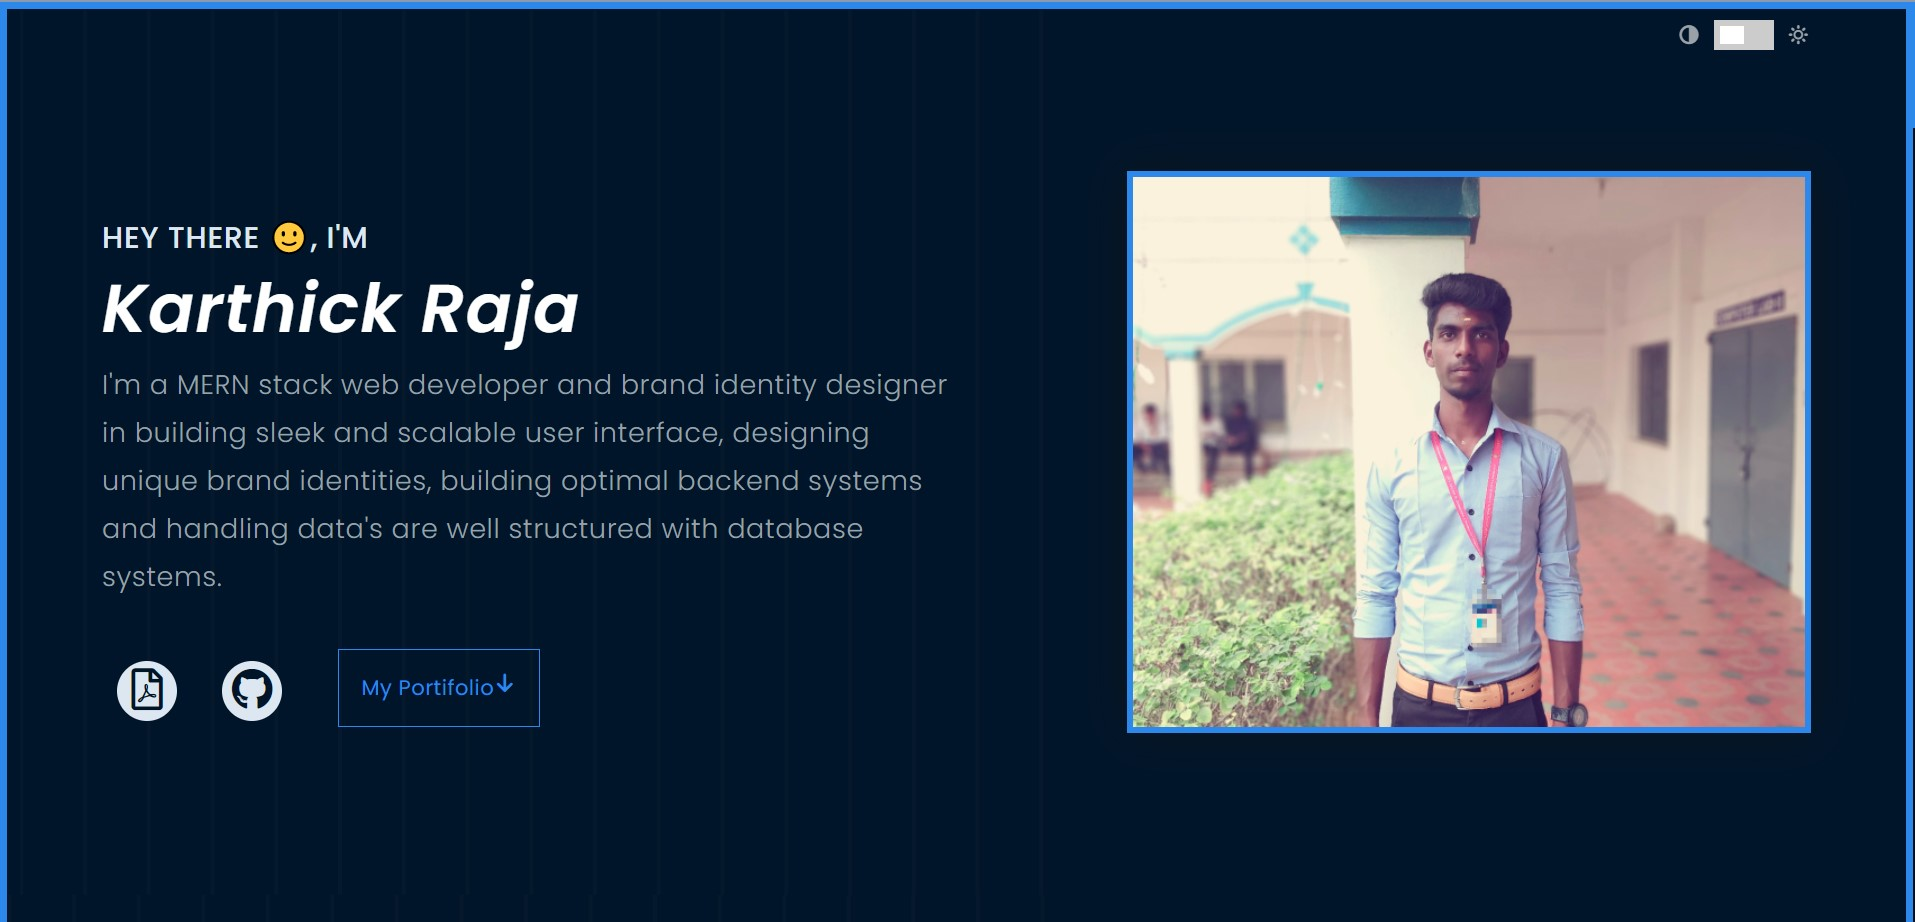
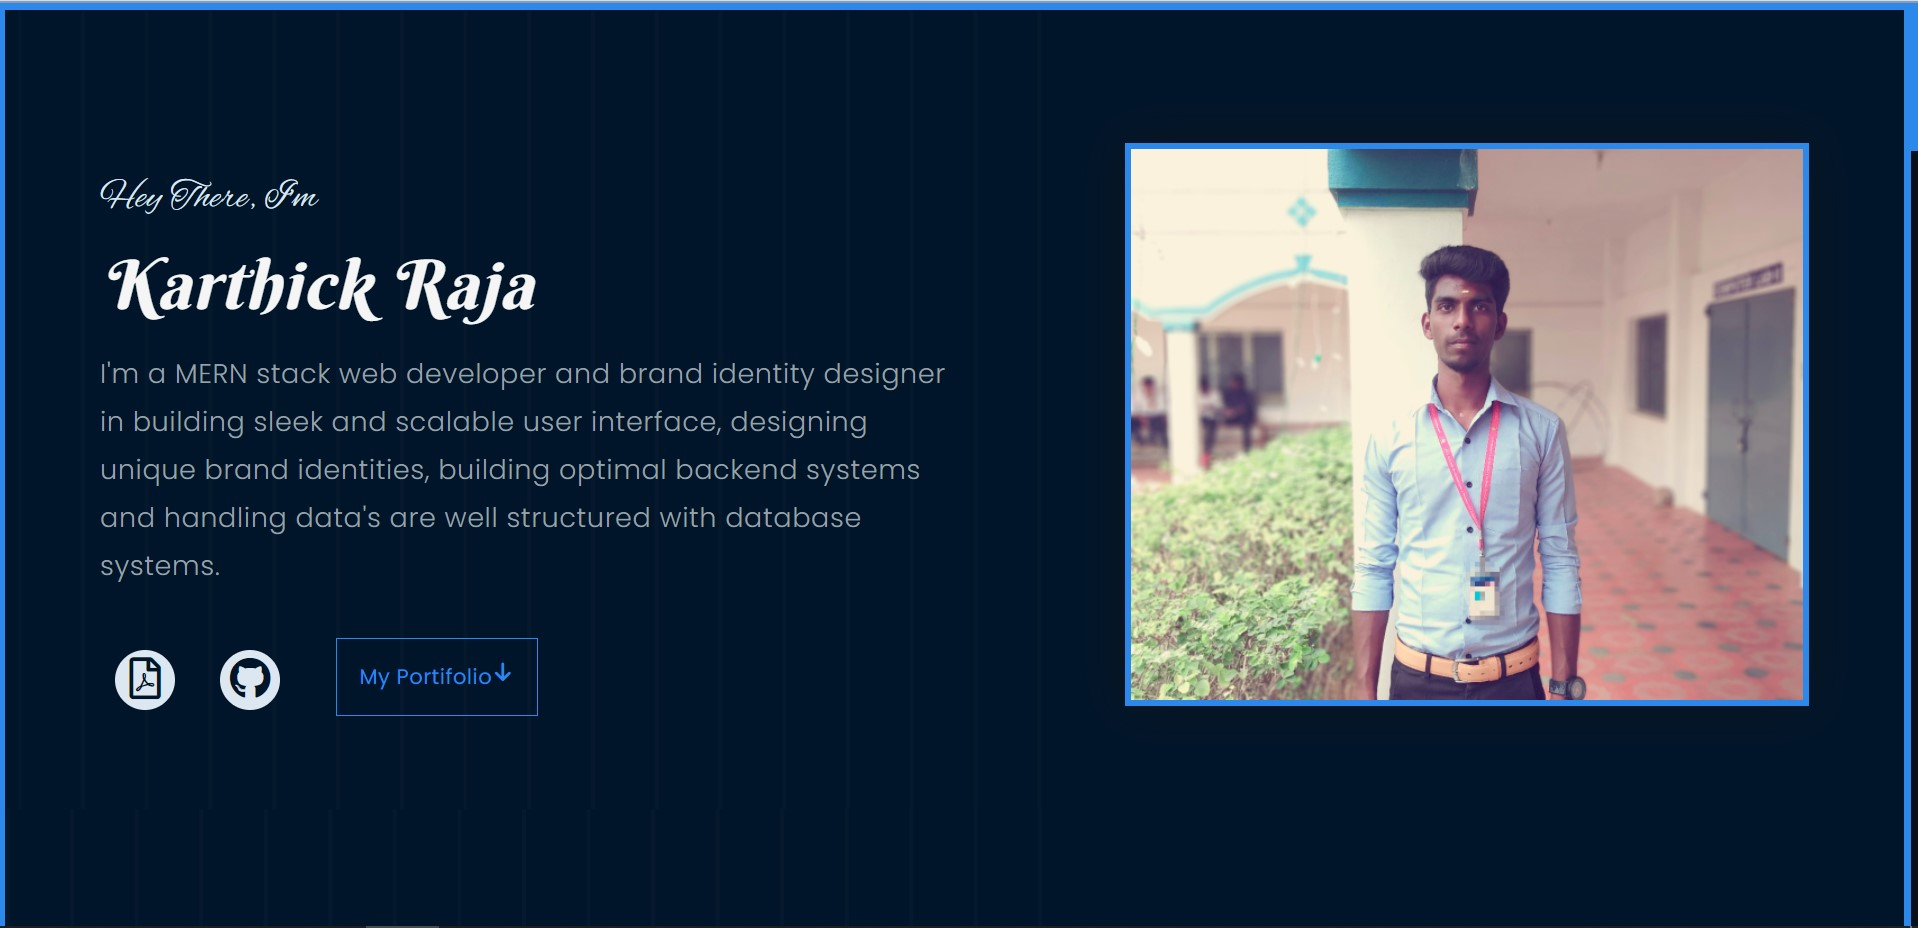
commitz

diff --git a/src/App.js b/src/App.js
@@ -1,16 +1,15 @@
 import React from 'react';
 import './App.css';
-// import Header from "./Components/Header/Header";
 import Hero from "./Components/Hero/Hero";
 import Skills from "./Components/Skills/Skills";
 import Portfolio from "./Components/Portfolio/Portfolio";
 import Footer from "./Components/Footer/Footer";
-import {Drawer} from "./Components/Drawer/Drawer";
+import { Drawer } from "./Components/Drawer/Drawer";
 import Preloader from "./Components/Preloader/Preloader"
 import "./Assets/Icons/icon.css";
 
 class App extends React.Component {
-  constructor(){
+  constructor() {
     super();
     this.state = {
       loaded: false,
@@ -31,12 +30,12 @@ class App extends React.Component {
     // Disabling scroll until elements are fully loaded
     document.onreadystatechange = () => {
       if (document.readyState !== "complete") {
-        this.setState({...this.state, loaded: false}, () => {
+        this.setState({ ...this.state, loaded: false }, () => {
           body.style.overflow = "hidden"
           root.style.overflow = "hidden"
         })
-      } else{
-        this.setState({...this.state, loaded: true}, () => {
+      } else {
+        this.setState({ ...this.state, loaded: true }, () => {
           body.style.overflow = "auto"
           root.style.overflow = "auto"
           drawer.style.display = "none"
@@ -54,26 +53,26 @@ class App extends React.Component {
         body.style.overflow = "auto"
         root.style.overflow = "auto"
       })
-      
+
     })
   }
 
-  Draw (i) {
+  Draw(i) {
     const body = document.querySelector('body')
     const root = document.querySelector('#root')
 
-    this.setState({...this.state, loaded: false}, () => {
+    this.setState({ ...this.state, loaded: false }, () => {
       body.style.overflow = "hidden"
       root.style.overflow = "hidden"
     })
 
     fetch("./data.json")
-    .then(response => response.json())
-    .then(data => {
-        this.setState({...this.state, loaded: true});
-        this.setState({drawContent: data.portfolio[i], draw: !this.state.draw})
-    })
-    .catch(error => console.log(error))
+      .then(response => response.json())
+      .then(data => {
+        this.setState({ ...this.state, loaded: true });
+        this.setState({ drawContent: data.portfolio[i], draw: !this.state.draw })
+      })
+      .catch(error => console.log(error))
   }
 
   updateTheme() {
@@ -81,27 +80,26 @@ class App extends React.Component {
     const toggleSwitch = document.querySelector('.theme-switch input[type="checkbox"]');
 
     if (currentTheme) {
-        document.documentElement.setAttribute('data-theme', currentTheme);
-        if (currentTheme === 'light') {
-            toggleSwitch.checked = true;
-        }
+      document.documentElement.setAttribute('data-theme', currentTheme);
+      if (currentTheme === 'light') {
+        toggleSwitch.checked = true;
+      }
     }
   }
 
   render() {
-    const {loaded, drawContent, draw} = this.state
+    const { loaded, drawContent, draw } = this.state
     return (
       <div className="App">
-        {/* <Header /> */}
         <Hero loaded={loaded} />
-        <Portfolio 
+        <Portfolio
           paragraph="These are some of the jobs I've done in the past."
           draw={this.Draw}
         />
-        <Skills/>
+        <Skills />
         <Footer />
-        <Drawer content={drawContent} draw={draw}/>
-        <Preloader loaded={loaded}/>
+        <Drawer content={drawContent} draw={draw} />
+        <Preloader loaded={loaded} />
       </div>
     )
   }

diff --git a/src/Components/Hero/Hero.css b/src/Components/Hero/Hero.css
@@ -1,5 +1,5 @@
 .hero {
-    padding: 70px 20px 50px 20px;
+    padding: 50px 30px;
     background: var(--background-color);
 }
 
@@ -124,7 +124,7 @@
 
 @media only screen and (min-width: 600px) {
     .hero {
-        padding: 70px 70px;
+        padding: 70px 70px 80px 70px;
         background: var(--background-color) url("../../Assets/Images/pattern.svg");
         background-position: top center;
         background-size: cover;
@@ -222,7 +222,7 @@
 
 @media only screen and (min-width: 961px) {
     .hero {
-        padding: 100px 70px;
+        padding: 70px 70px 50px 70px;
         background: var(--background-color) url("../../Assets/Images/pattern.svg");
         background-position: top center;
         background-size: cover;
